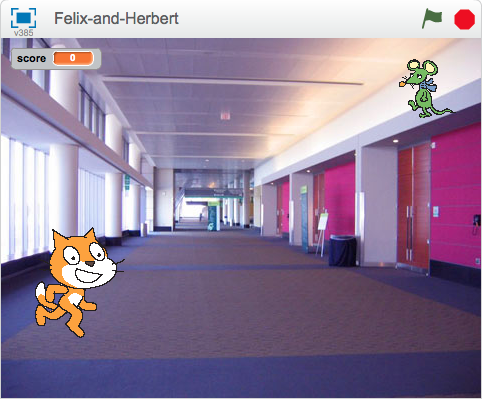
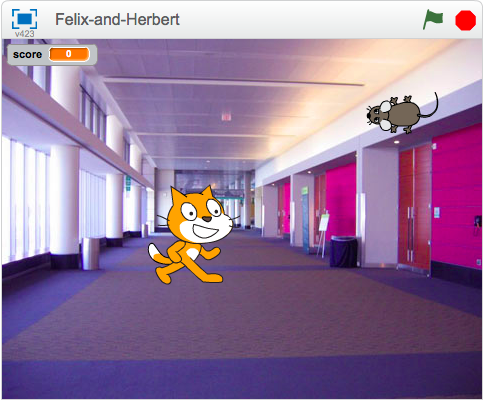
[#150] Mouse graphic isn’t used, so removing.
Also updating screenshot to present a more accurate representation of
Herbert’s true self.

diff --git a/en-GB/Term 1/01 Felix and Herbert/01 Felix and Herbert.md b/en-GB/Term 1/01 Felix and Herbert/01 Felix and Herbert.md
@@ -4,7 +4,7 @@ level: Level 1
 language: en-GB
 stylesheet: scratch
 embeds: "*.png"
-materials: ["Felix-and-Herbert.sb2", "Resources/*.png"]
+materials: ["Felix-and-Herbert.sb2"]
 ...
 
 # Introduction { .intro }
